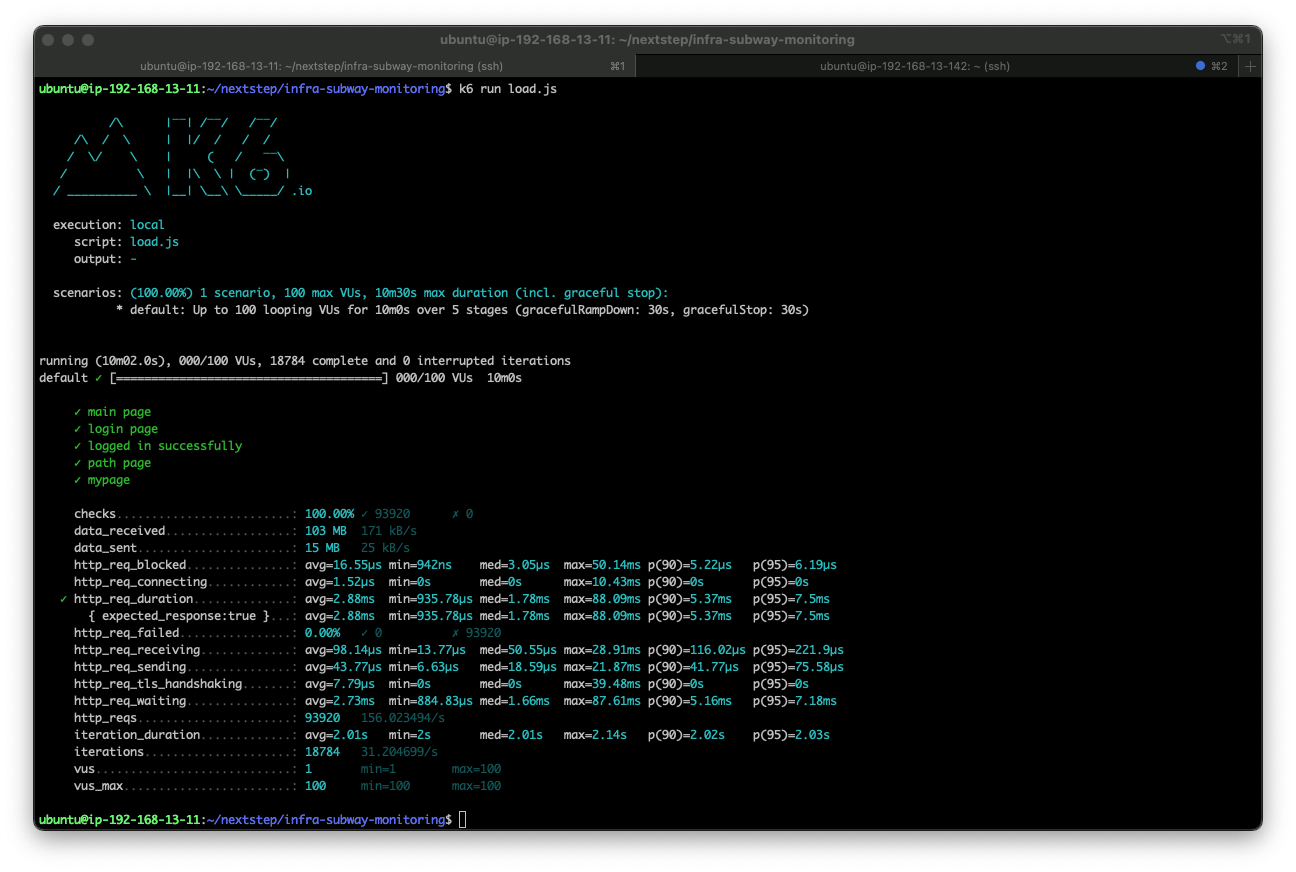
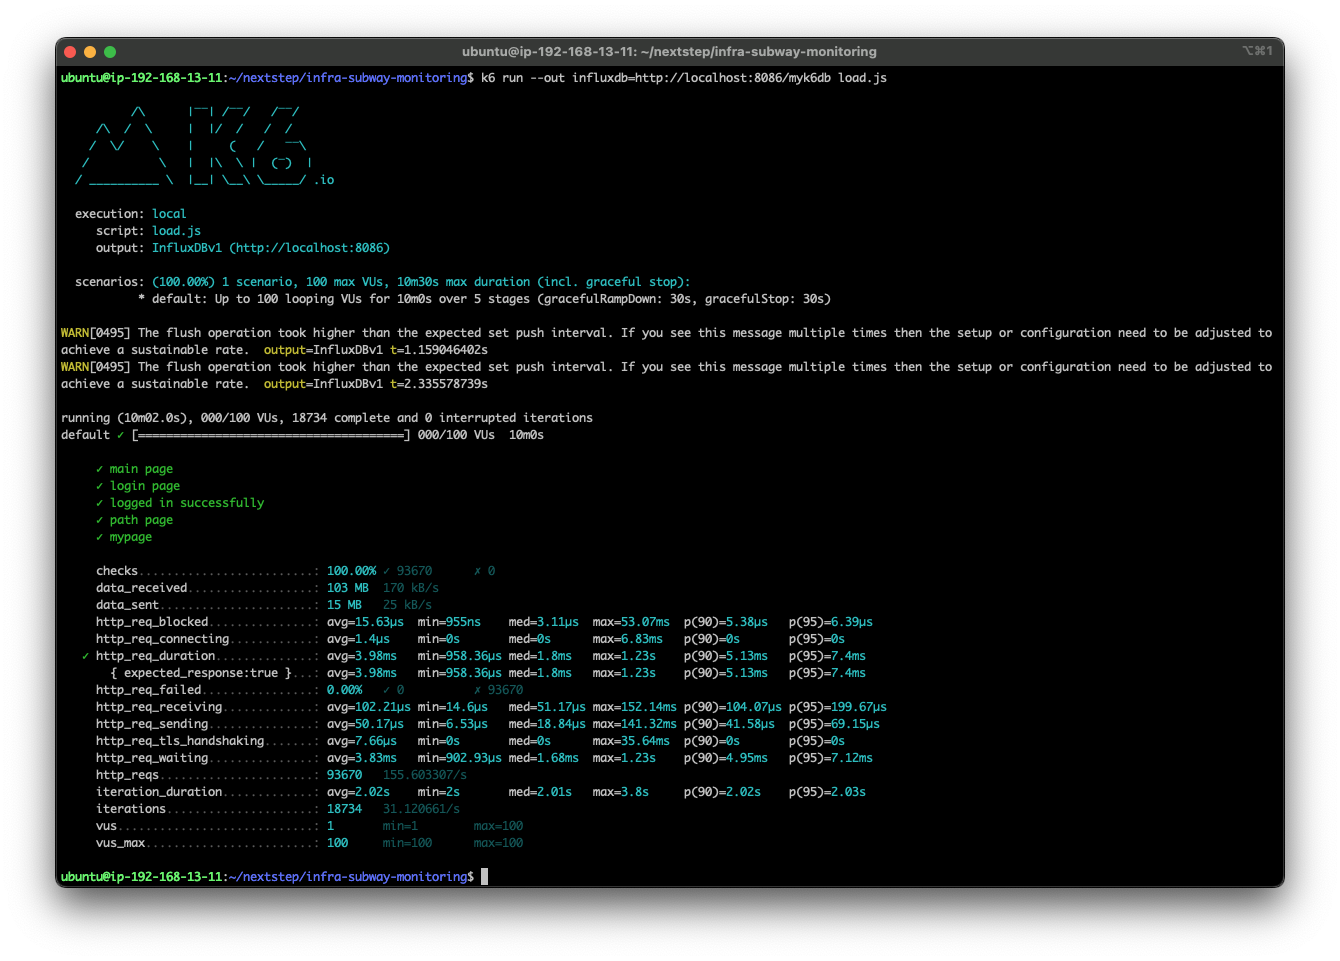
[2주차 1,2단계] 웹성능 및 부하테스트

Changed region(s): [[0.0, 0.031, 0.9877, 0.9908]]

diff --git a/README.md b/README.md
@@ -45,7 +45,7 @@ npm run dev
   서울교통공사 : http://www.seoulmetro.co.kr/kr/cyberStation.do
   네이버지도 : https://m.map.naver.com/subway/subwayLine.naver?region=1000
   카카오맵 : https://m.map.kakao.com/
-- 
+
 1. 웹 성능예산은 어느정도가 적당하다고 생각하시나요
 - First Contentful Paint 2.5초 미만
 - Time to Interactive 2초 이하
@@ -67,10 +67,52 @@ npm run dev
 
 ### 2단계 - 부하 테스트 
 1. 부하테스트 전제조건은 어느정도로 설정하셨나요
+- 대상 시스템 범위 : 메인화면, 로그인화면, 로그인, 경로찾기 화면, 마이페이지 화면
+- Smoke
+  - Vuser : 1
+  - export let options = {
+    vus: 1, // 1 user looping for 1 minute
+    duration: '10s',
+    thresholds: {
+    http_req_duration: ['p(99)<200'], // 99% of requests must complete below 1.5s
+    },
+    };
+- Load
+  - Vuser : 100
+    - export let options = {
+      stages: [
+      { duration: '2m', target: 10 },
+      { duration: '2m', target: 100 },
+      { duration: '2m', target: 100 },
+      { duration: '2m', target: 100 },
+      { duration: '2m', target: 10 },
+      ],
+      thresholds: {
+      http_req_duration: ['p(99)<200'],
+      },
+    };
+- Stress
+  - Vuser : 200
+    - export let options = {
+      stages: [
+      { duration: '1m', target: 50 },
+      { duration: '1m', target: 100 },
+      { duration: '1m', target: 150 },
+      { duration: '2m', target: 200 },
+      { duration: '2m', target: 150 },
+      { duration: '10s', target: 100 }
+      ],
+      thresholds: {
+      http_req_duration: ['p(99)<200'],
+      },
+      };
 
 2. Smoke, Load, Stress 테스트 스크립트와 결과를 공유해주세요
-
+- src > main > resources > k6 test > load.png, smke.png, stress.png
+- grafana : http://3.39.53.16:3000
+  - 아이디 : admin , 비밀번호 : 12345678
 ---
+
 
 ### 3단계 - 로깅, 모니터링
 1. 각 서버내 로깅 경로를 알려주세요
